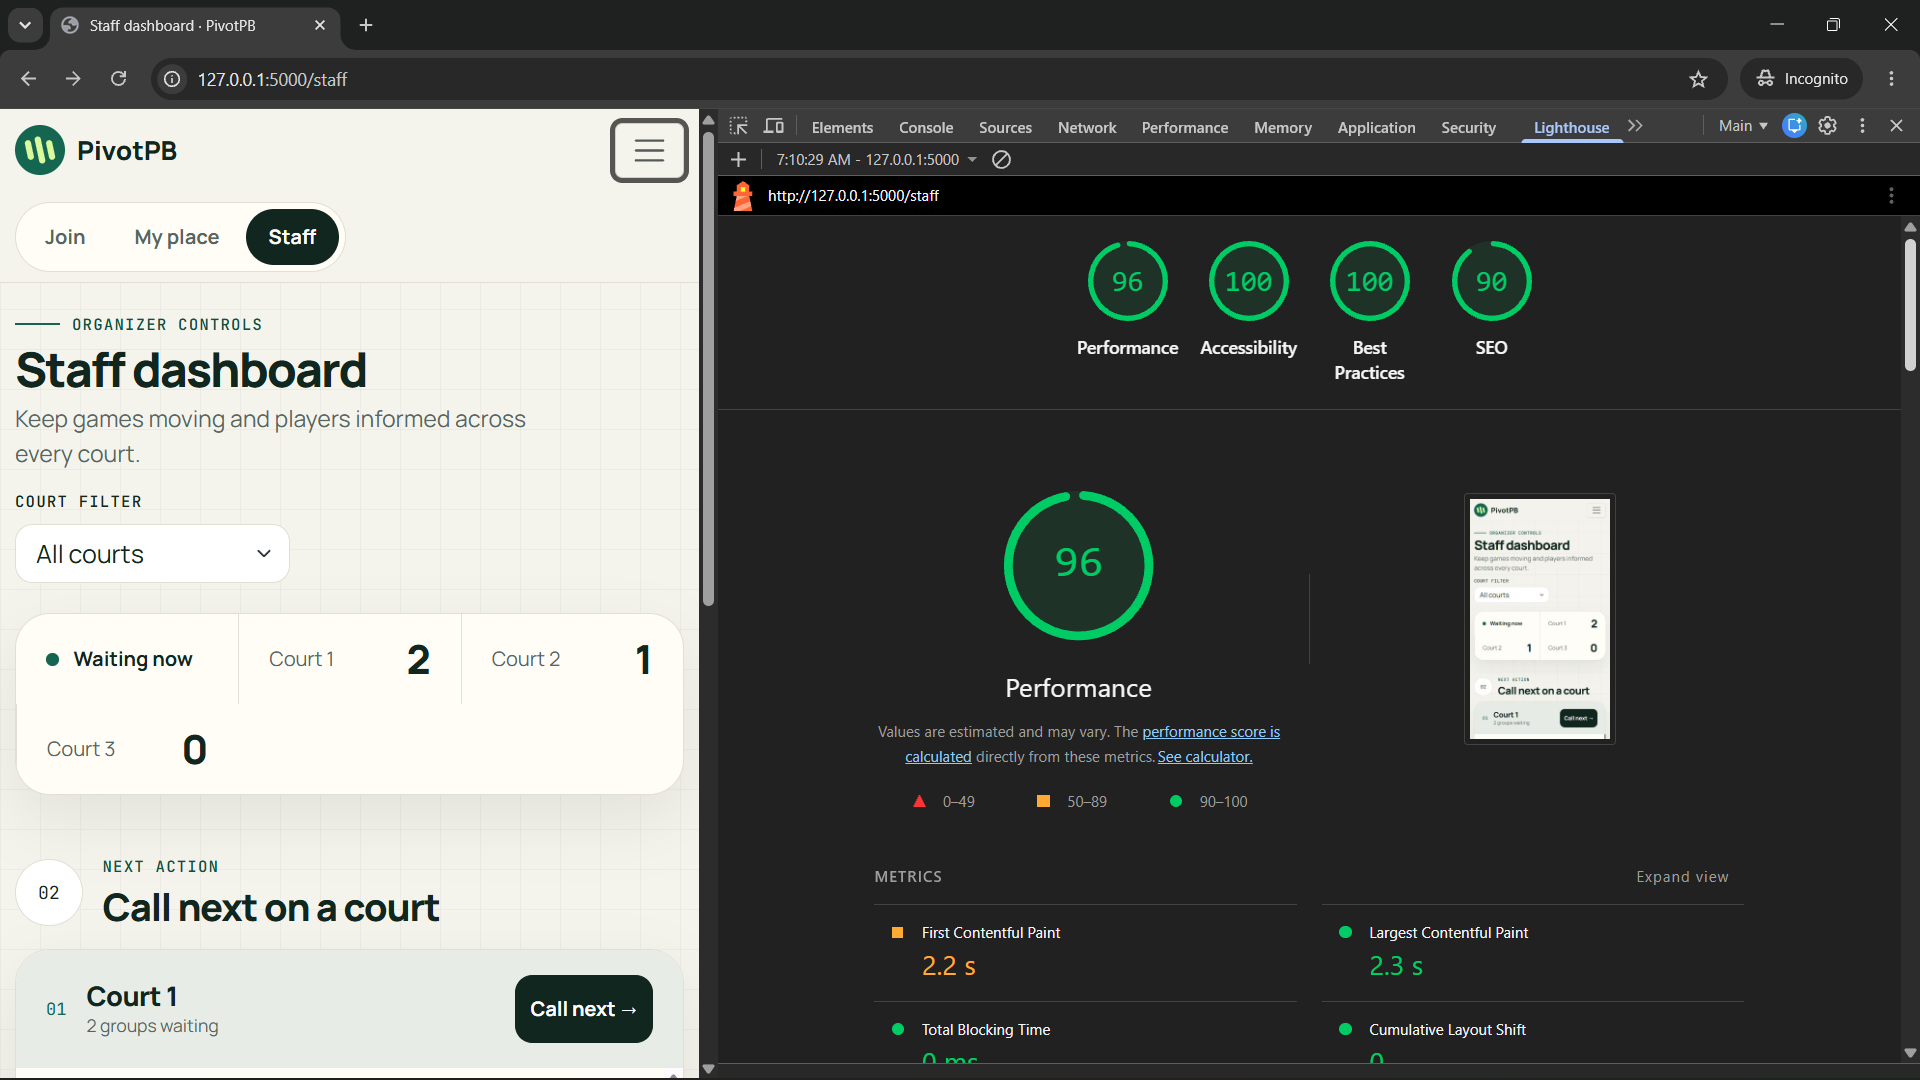
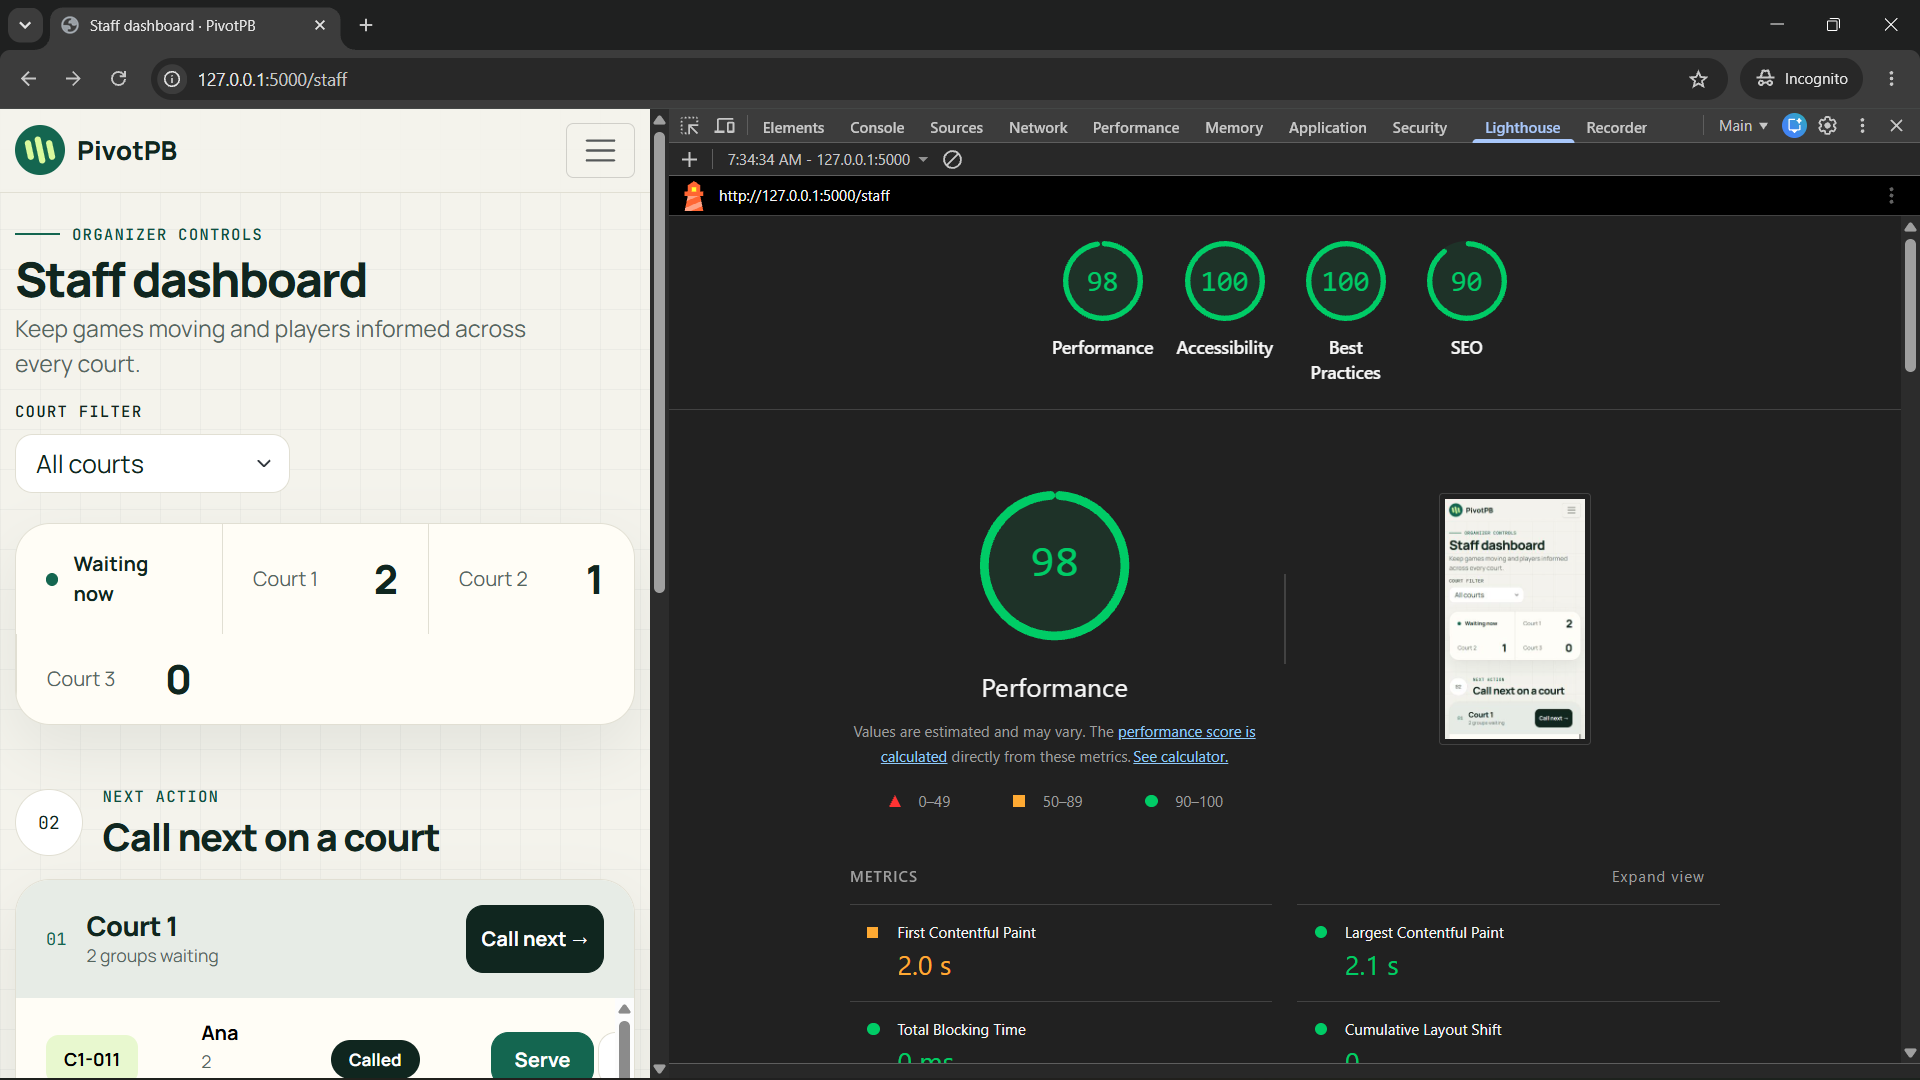
Fixed accessibility.md file content

diff --git a/activities/my-app/docs/week3/accessibility.md b/activities/my-app/docs/week3/accessibility.md
@@ -4,9 +4,9 @@
 
 | Screen | Before | After | Main issues fixed |
 | --- | --- | --- | --- |
-| Join | ![Join Lighthouse score](screenshots/lighthouse-join.png) | ![Join Lighthouse score](screenshots/lighthouse-join.png) | No Issue |
-| My place | ![My place Lighthouse score](screenshots/lighthouse-myplace.png) | ![My place Lighthouse score](screenshots/lighthouse-myplace.png) | No Issue |
-| Staff dashboard | ![Staff Lighthouse score](screenshots/lighthouse-staff.png) | ![Staff Lighthouse score](screenshots/lighthouse-staff.png) | No Issue |
+| Join | ![Join Lighthouse score](screenshots/lighthouse-join.png)(screenshots/lighthouse-join-1.png) | ![Join Lighthouse score](screenshots/lighthouse-join.png)(screenshots/lighthouse-join-1.png) | No Issue |
+| My place | ![My place Lighthouse score](screenshots/lighthouse-myplace.png)(screenshots/lighthouse-myplace-1.png) | ![My place Lighthouse score](screenshots/lighthouse-myplace.png)(screenshots/lighthouse-myplace-1.png) | No Issue |
+| Staff dashboard | ![Staff Lighthouse score](screenshots/lighthouse-staff.png)(screenshots/lighthouse-staff-1.png) | ![Staff Lighthouse score](screenshots/lighthouse-staff.png)(screenshots/lighthouse-staff-1.png) | No Issue |
 
 Anything still below 90 and why: None
 
